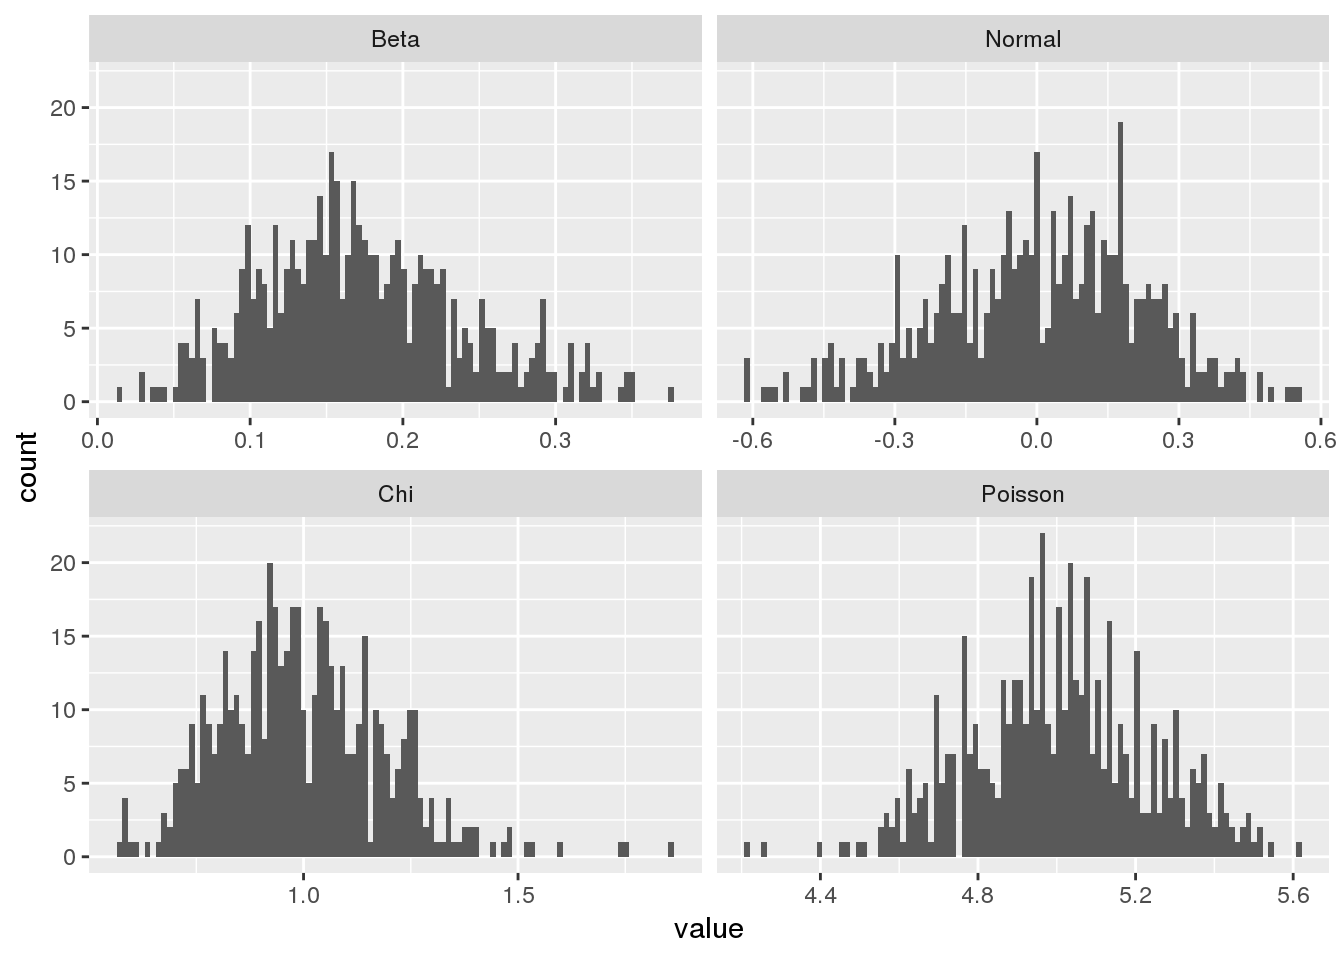
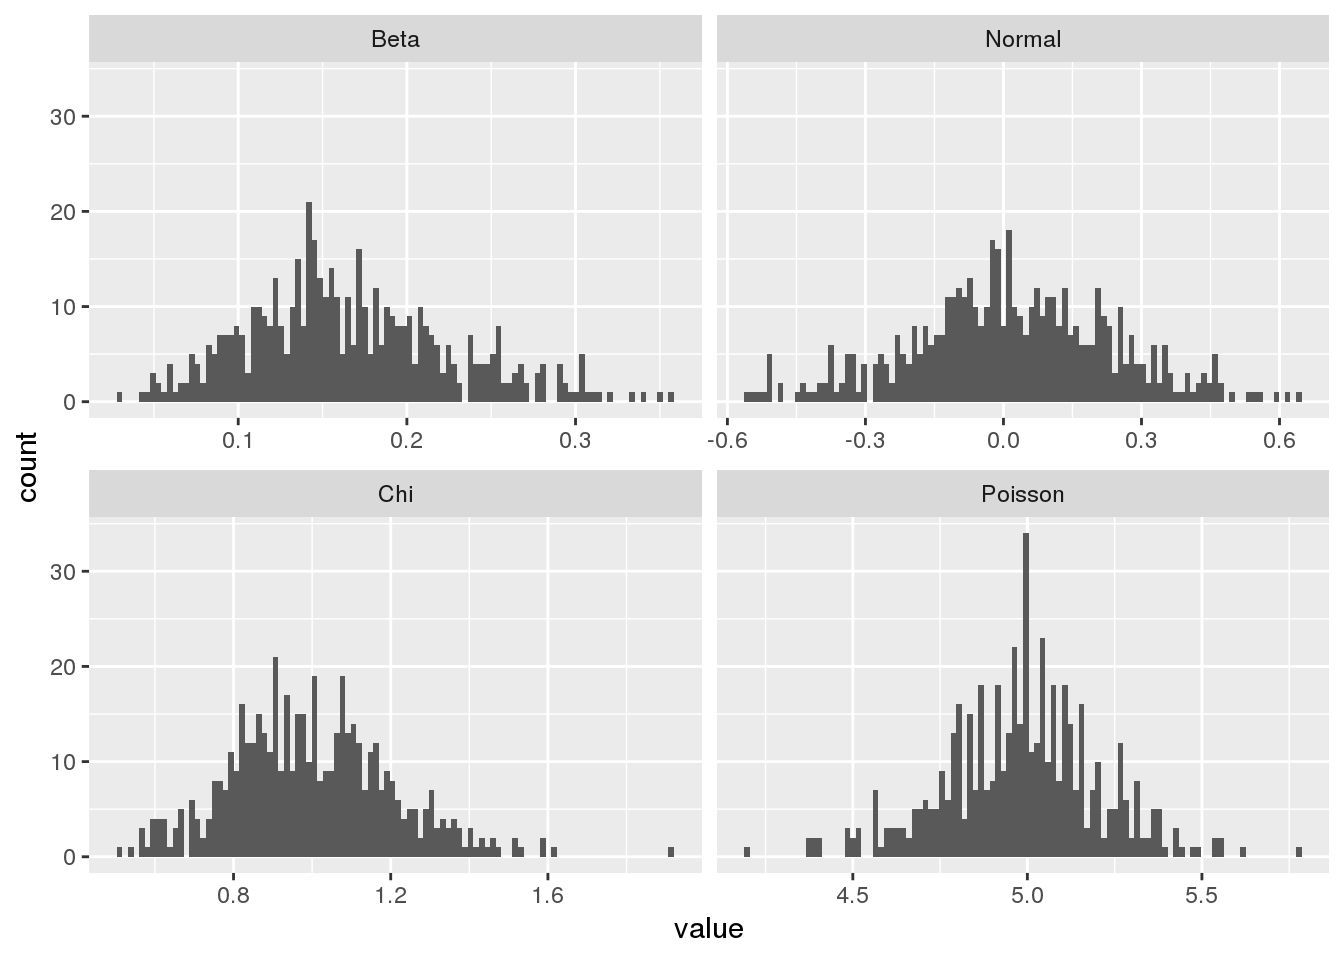
added seed for distribution computations

diff --git a/content/post/statistical_test/parametric_sample_size.html b/content/post/statistical_test/parametric_sample_size.html
@@ -25,6 +25,8 @@ tags:
 <pre class="r"><code>require(MASS)
 require(reshape2)
 require(ggplot2)
+# set seed to ensure that results are reproducible
+set.seed(5)
 nbr.samples &lt;- 500
 sample.sizes &lt;- c(5, 10, 15, 20, 50, 100, 1000, 5000)
 result &lt;- NULL
@@ -55,15 +57,15 @@ for (i in seq_along(sample.sizes)) {
 <h2>Log likelihoods of fits</h2>
 <p>Investigating the results, we can see that some distributions seem to approach the normal distribution faster than others:</p>
 <pre class="r"><code>print(result)</code></pre>
-<pre><code>##   Sample_Size      Beta     Normal       Chi    Poisson   Student
-## 1           5  647.5375 -269.99162 -471.7371 -736.99568 -1921.338
-## 2          10  850.1139 -120.40042 -301.6046 -544.04132 -2754.611
-## 3          15  922.2060  -12.16931 -198.8982 -429.00496 -2829.940
-## 4          20 1040.3833   44.02058 -150.2861 -363.56115 -2055.590
-## 5          50 1240.5191  257.26619  118.3098 -127.04694 -3061.472
-## 6         100 1407.4652  432.84558  276.6635   31.36075 -2519.351
-## 7        1000 1999.4069 1024.90360  846.1744  631.85507 -2057.755
-## 8        5000 2395.5023 1452.94737 1226.5630 1018.96964 -2739.120</code></pre>
+<pre><code>##   Sample_Size      Beta     Normal        Chi    Poisson   Student
+## 1           5  694.9139 -299.81161 -496.33474 -702.94076 -1971.203
+## 2          10  823.0384 -126.68806 -297.08253 -515.18702 -3806.447
+## 3          15  909.4417  -30.63266 -199.77525 -455.64737 -2119.944
+## 4          20 1045.1414   46.45709 -136.21868 -375.75690 -2263.025
+## 5          50 1235.7655  278.66189   84.44694 -117.56140 -3427.721
+## 6         100 1397.7265  443.81523  281.68706   47.87537 -2178.871
+## 7        1000 1996.2198 1019.70692  845.26837  619.25871 -3636.674
+## 8        5000 2398.4267 1402.41433 1260.47873 1018.24454 -3231.983</code></pre>
 <p>According to positive log likelihoods, the beta distribution yields normally distributed means already at a sample size of 5. Normal, chi-squared, and Poisson distributions yield normally distributed means at sample sizes of 20, 50, and 100, respectively. Finally, the means of Student’s distribution never become normal since the distribution with one degree of freedom has infinite kurtosis such that the central limit theorem does not hold.</p>
 </div>
 <div id="verifying-the-log-likelihood-criterion" class="section level2">
@@ -81,7 +83,7 @@ plot.means(initial.means)</code></pre>
 <p>These results indicate that the log-likelihood criterion is a sufficient proxy for normality. Note, however, that from visual inspection, the initial beta distribution of means does not seem <em>more normal</em> than the one arising from the normal distribution. So this result may be taken with a grain of salt. Looking at Student’s t-distribution, we can see why it its means are not normally distributed:</p>
 <pre class="r"><code>round(quantile(means$Student), 2)</code></pre>
 <pre><code>##      0%     25%     50%     75%    100% 
-##  -90.03   -0.89    0.07    1.01 1262.60</code></pre>
+## -495.61   -0.95    0.00    0.98 3422.66</code></pre>
 <p>For some of the samples, the mean distribution has extreme outliers at both tails of the distribution.</p>
 </div>
 <div id="conclusions" class="section level2">
